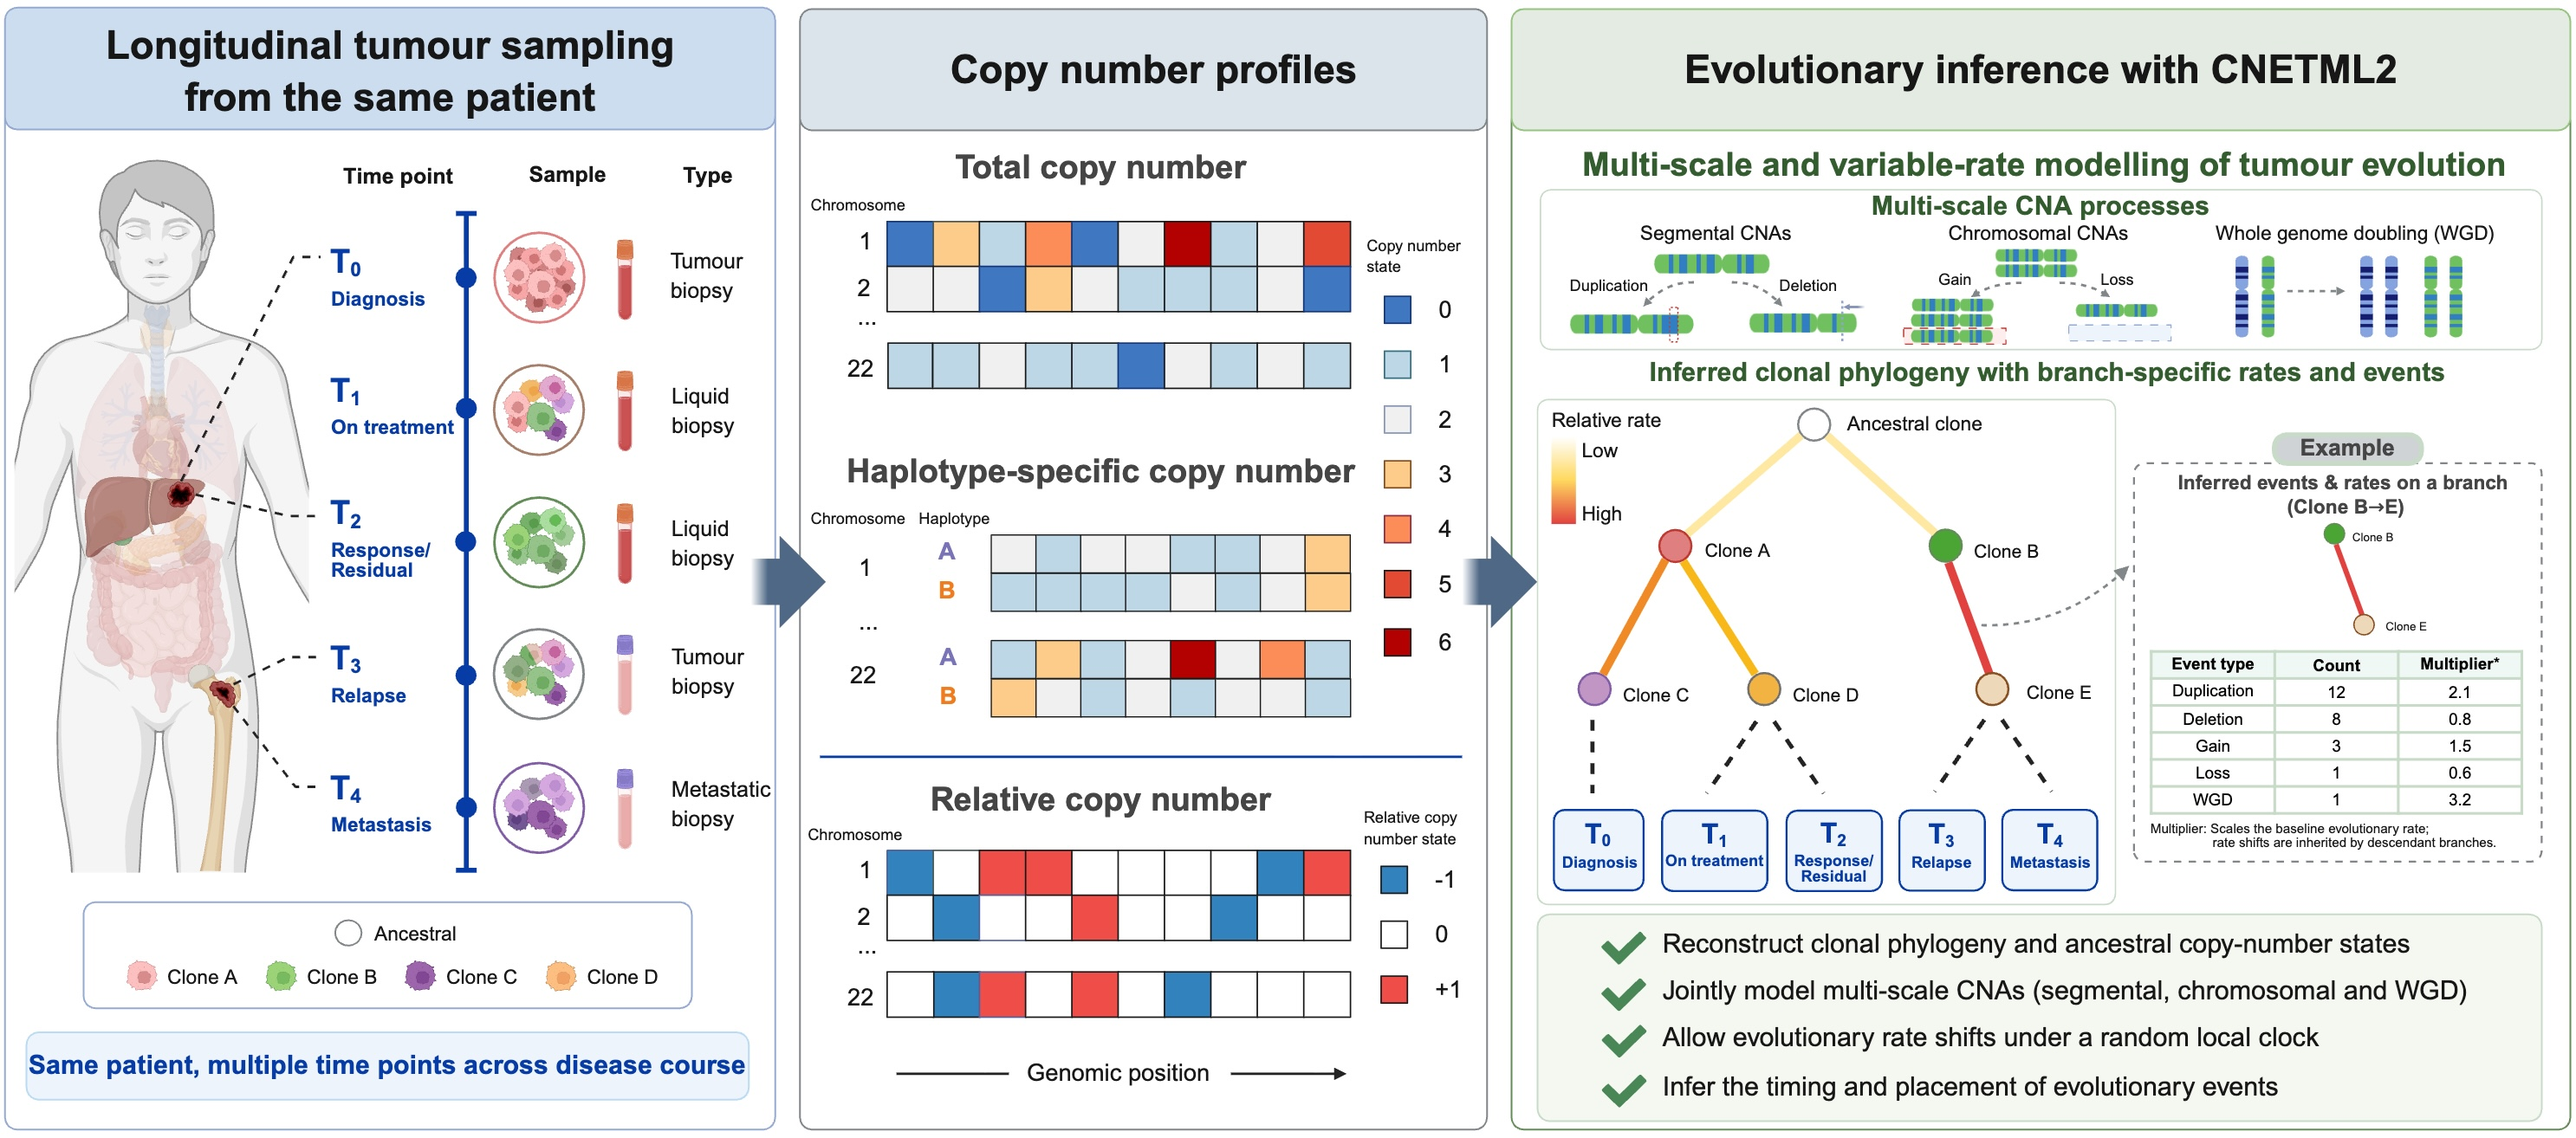
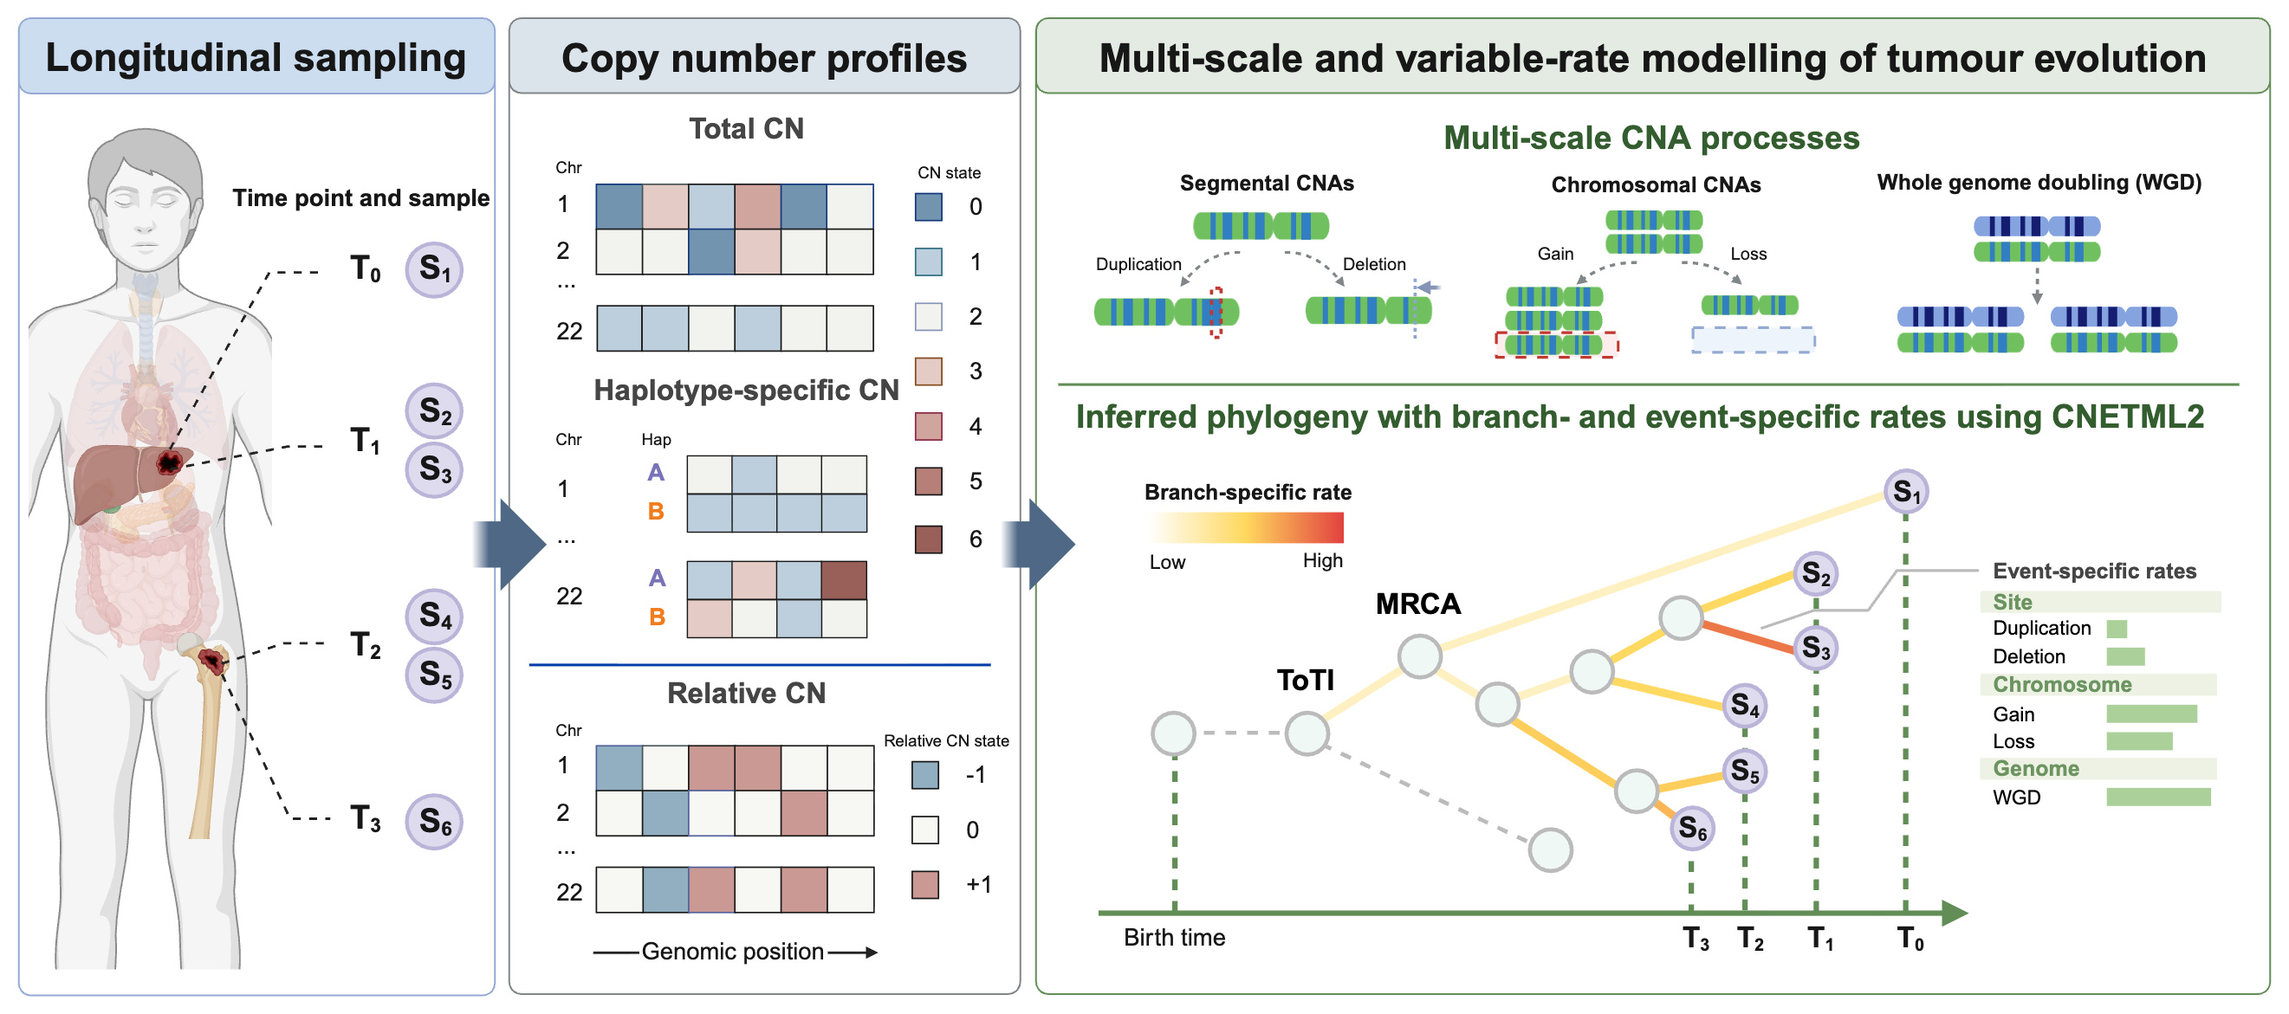
Update the briefing figure and its description
- The briefing figure is the overview image in the README and on the cnetml docs page.
- Before: the README text called the result a clonal phylogeny and did not explain the figure's abbreviations.
- Now: the new figure replaces both copies (`assets/briefing/`, `docs/source/_static/`).
- The README Overview text describes the figure and defines CN, CNA, Chr, Hap, T, S, ToTI and MRCA.
- The cnetml docs caption and the zh_CN translation of its alt text match the new figure.

diff --git a/README.md b/README.md
@@ -47,7 +47,9 @@ HPC without conda, Windows, plotting and tests: see the [installation guide](htt
   </a>
 </p>
 
-CNETML2 takes longitudinal copy number profiles (total, haplotype-specific, and relative) from multiple samples of the same patient and jointly models segmental, chromosomal, and whole-genome-doubling changes to reconstruct a clonal phylogeny with branch-specific evolutionary rates and event timing.
+**Overview of CNETML2.** Tumour samples collected from a patient at successive time points are summarised as copy-number profiles, from which CNETML2 infers a time-scaled phylogeny. The input can be any one of three profile types: total, haplotype-specific or relative copy number. With total or haplotype-specific input, change is modelled at three scales: segmental duplication and deletion, chromosome gain and loss, and whole-genome doubling (WGD); relative input uses the segment level only. Each event type has a rate of its own, and rates can stay constant across the tree or differ between branches, for example under a random local clock (RLC), where a shift on one branch is inherited by its descendants. Every branch therefore carries its own set of event-specific rates, shown for one branch as an example; the tree and rates are illustrative.
+
+*CN*: copy number. *CNA*: copy-number alteration. *Chr*: chromosome. *Hap*: haplotype. *T* and *S*: sampling time point and tumour sample. *Birth time*: the patient's birth, when the genome still has a normal copy number. *ToTI* (time of tumour initiation): the last common ancestor that still has a normal copy number, and the root of the tree in the model. *MRCA*: the most recent common ancestor of all tumour samples.
 
 ## Version and citation
 

diff --git a/docs/source/user-guide/cnetml.md b/docs/source/user-guide/cnetml.md
@@ -5,11 +5,11 @@ likelihood, jointly inferring tree topology, node ages, and mutation rates
 from (optionally longitudinal) samples of a single patient.
 
 :::{thumbnail} /_static/briefing.jpeg
-:alt: Overview of the cnetml2 workflow, from longitudinal sampling to copy number profiles to evolutionary inference
+:alt: Overview of the cnetml2 workflow, from longitudinal sampling to copy number profiles to multi-scale, variable-rate modelling of tumour evolution
 :align: center
 :class: centered-figure
 :show_caption: true
-:title: Longitudinal tumour sampling, copy-number profiling, and evolutionary inference with cnetml2.
+:title: Longitudinal tumour sampling, copy-number profiles, and a time-scaled phylogeny with branch- and event-specific rates inferred by cnetml2 (illustrative). CN, copy number; CNA, copy-number alteration; Chr, chromosome; Hap, haplotype; T and S, sampling time point and tumour sample; ToTI, time of tumour initiation (the root, the last ancestor with a normal copy number); MRCA, most recent common ancestor of all tumour samples.
 :::
 
 
